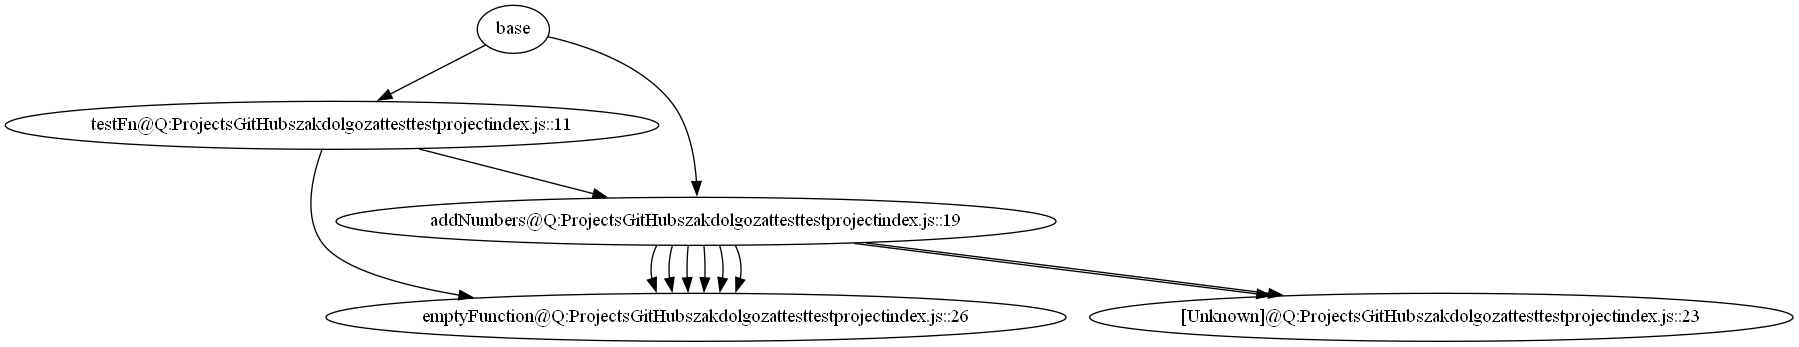
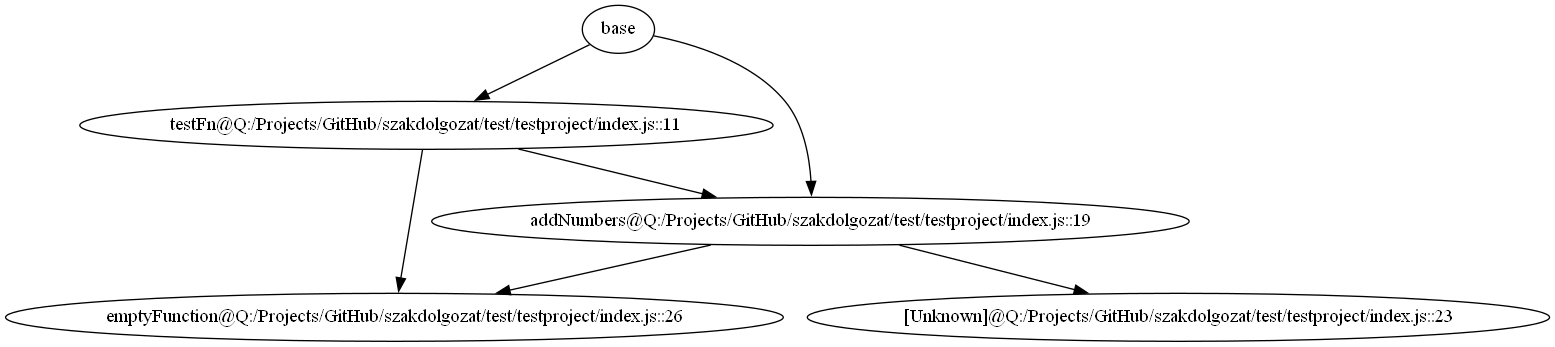
Élek szűrése

diff --git a/lib/visualizer/visualizer.js b/lib/visualizer/visualizer.js
@@ -19,25 +19,40 @@ class Visualizer {
         for (const visedge of this.graph.edges) {
             console.log("Adding nodes: " + visedge.node1.funcName + ", " + visedge.node2.funcName)
 
-            let node1 = new Graphviz.Node(visedge.node1.funcName);
-            let node2 = new Graphviz.Node(visedge.node2.funcName);
+            let node1Name = visedge.node1.funcName.replaceAll('\\', '/');
+            let node2Name = visedge.node2.funcName.replaceAll('\\', '/');
+
+            let node1 = new Graphviz.Node(node1Name);
+            let node2 = new Graphviz.Node(node2Name);
 
             let edge = new Graphviz.Edge([node1, node2]);
 
             g.addNode(node1);
             g.addNode(node2);
 
-            g.addEdge(edge);
+            if (!Visualizer.existEdge(g, node1Name, node2Name)) {
+                g.addEdge(edge);
+            }
+
         }
 
         GraphvizAdapter.toFile(Graphviz.toDot(g), './result.png', { format: 'png' });
+    }
 
-        // let n1 = g.addNode( "Hello", {"color" : "blue"} );
-        // n1.set( "style", "filled" );
-        // g.addNode( "World" );
-        //
-        // let e = g.addEdge( n1, "World" );
-        // e.set( "color", "red" );
+    static existEdge(digraph, node1, node2) {
+        for (const edge of digraph.edges) {
+            let edgeNode1 = edge.targets[0];
+            let edgeNode2 = edge.targets[1];
+
+            console.log("Edge1: " + edgeNode1.id);
+            console.log("Edge2: " + edgeNode2.id);
+
+            if (edgeNode1.id === node1 && edgeNode2.id === node2) {
+                return true;
+            }
+        }
+
+        return false;
     }
 }
 
